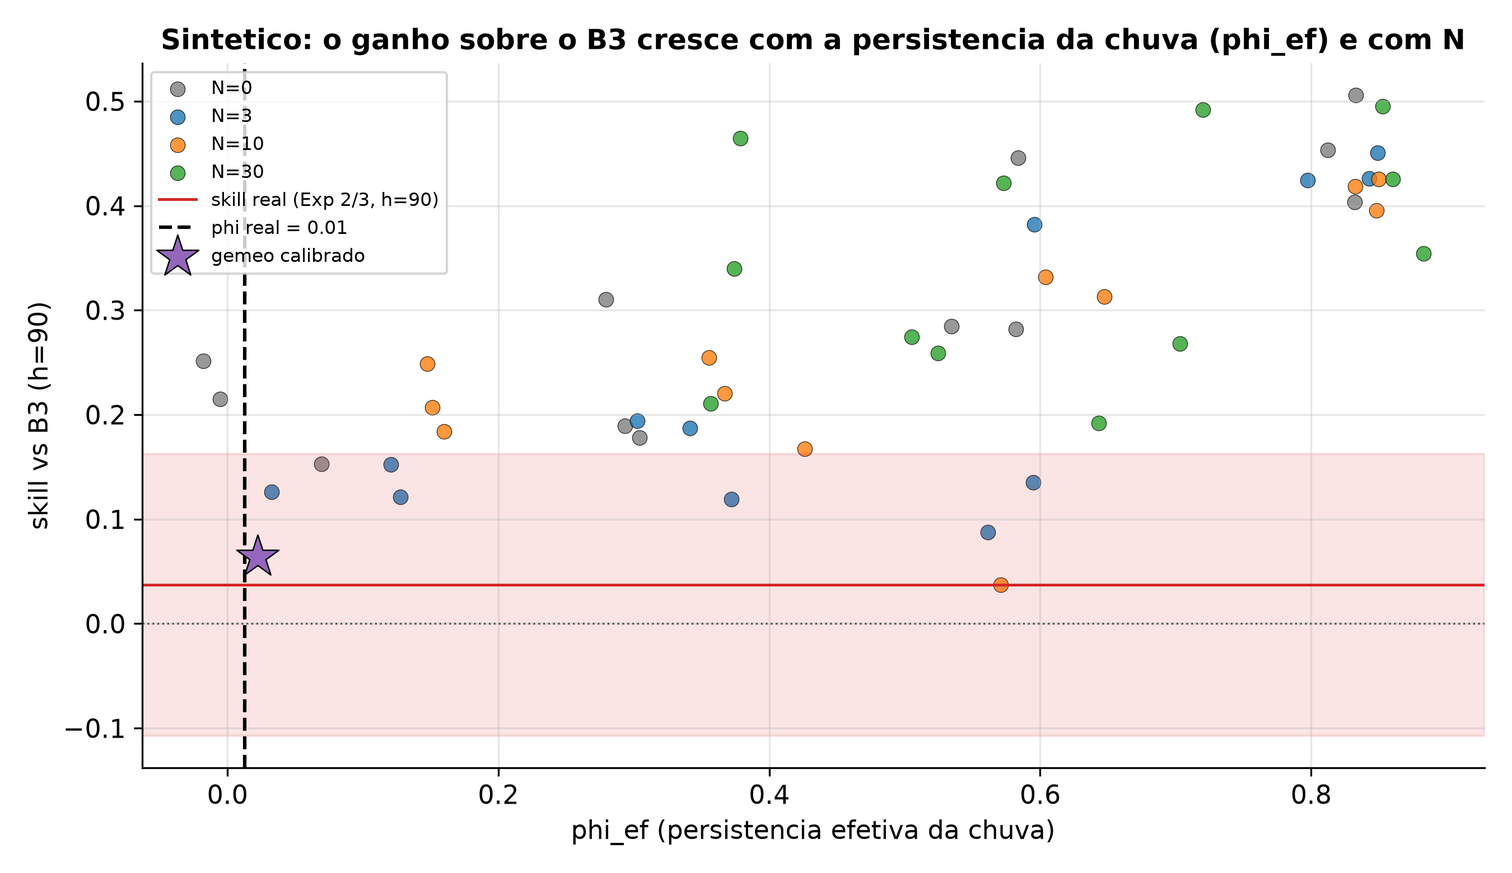
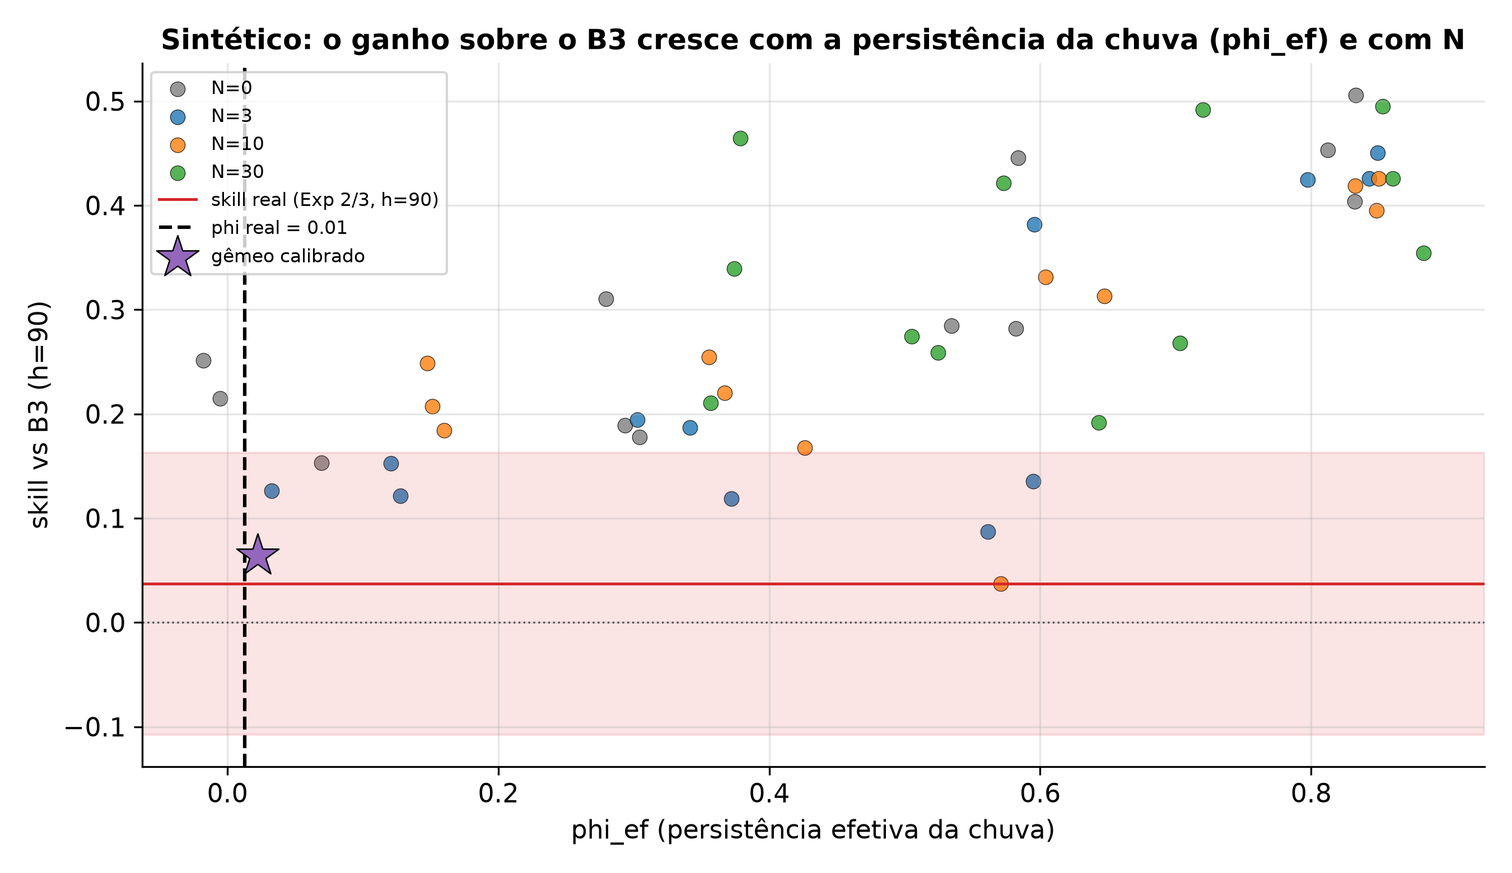
Figuras: acentua os rotulos, corrige o titulo da fig_14 e os titulos cortados
So texto, nenhum numero muda (fig_04 nem foi regenerada, por nao ter acento).
- Acentos em todos os rotulos, titulos, legendas e leituras das figuras 01-16 e
  do indice_figuras.md (estacoes, util, episodios, persistencia, Atencao etc.).
- fig_14: o titulo deixa de generalizar por tamanho ("util nos maiores, fraco nos
  pequenos", que o Atibainha contradiz: 2o maior e o pior skill) e passa a dizer o
  achado real: "o mesmo pipeline nos 4 reservatorios; so o Jaguari supera o B3, e
  so em h30". Os dados plotados sao os mesmos.
- fig_08 e fig_11: titulos longos agora em duas linhas, sem corte.

diff --git a/pipeline_v2/fig_finais.py b/pipeline_v2/fig_finais.py
@@ -36,9 +36,9 @@ DF_HOUR = ROOT / "legado_v1" / "data" / "interim" / "inmet_sp_hourly_clean.parqu
 DS = ROOT / "data" / "processed_v2" / "dataset_diario.parquet"
 COMP = ROOT / "legado_v1" / "reports" / "threshold_otimizado"
 
-FAIXAS = [("Normal", 60, 100, "#2ca02c"), ("Atencao", 40, 60, "#bcbd22"),
-          ("Alerta", 30, 40, "#ff7f0e"), ("Restricao", 20, 30, "#d62728"),
-          ("Reserva tecnica", -30, 20, "#7f0000")]
+FAIXAS = [("Normal", 60, 100, "#2ca02c"), ("Atenção", 40, 60, "#bcbd22"),
+          ("Alerta", 30, 40, "#ff7f0e"), ("Restrição", 20, 30, "#d62728"),
+          ("Reserva técnica", -30, 20, "#7f0000")]
 
 INDICE = []  # (num, arquivo, titulo, leitura)
 
@@ -72,11 +72,11 @@ def fig01():
     a1.set_ylabel("Chuva anual agregada (mm)", color="#1f77b4"); a1.set_xlabel("Ano")
     a2 = a1.twinx(); a2.grid(False)
     a2.plot(chuva.index, est.reindex(chuva.index).values, color="#d62728", marker="o", lw=2)
-    a2.set_ylabel("Numero de estacoes empilhadas", color="#d62728")
-    a1.set_title("v1: a chuva agregada cresce com o numero de estacoes, nao com o clima")
-    salvar(fig, 1, "v1_chuva_vs_estacoes", "Chuva agregada da v1 contra numero de estacoes",
-           "A chuva somada vai de 3.438 mm (3,9 estacoes, 2003) a 50.476 mm (41,5 estacoes, 2019): "
-           "media um artefato de agregacao, nao o clima.")
+    a2.set_ylabel("Número de estações empilhadas", color="#d62728")
+    a1.set_title("v1: a chuva agregada cresce com o número de estações, não com o clima")
+    salvar(fig, 1, "v1_chuva_vs_estacoes", "Chuva agregada da v1 contra número de estações",
+           "A chuva somada vai de 3.438 mm (3,9 estações, 2003) a 50.476 mm (41,5 estações, 2019): "
+           "média um artefato de agregação, não o clima.")
 
 
 def fig02():
@@ -86,9 +86,9 @@ def fig02():
     fig, ax_ = plt.subplots(figsize=(9, 5))
     cores = ["#d62728" if a >= 2020 else "#2ca02c" for a in rad.index]
     ax_.bar(rad.index, rad.values, color=cores)
-    ax_.set_ylabel("RAD_SUM media diaria (kJ/m2)"); ax_.set_xlabel("Ano")
-    ax_.set_title("v1: RAD_SUM fica zerada em todo o periodo de teste (2020-2024)")
-    salvar(fig, 2, "v1_rad_zerada", "Radiacao zerada no teste da v1",
+    ax_.set_ylabel("RAD_SUM média diária (kJ/m2)"); ax_.set_xlabel("Ano")
+    ax_.set_title("v1: RAD_SUM fica zerada em todo o período de teste (2020-2024)")
+    salvar(fig, 2, "v1_rad_zerada", "Radiação zerada no teste da v1",
            "Por troca de grafia da coluna, RAD_SUM vale zero em 2020-2024 (teste) e fica inflada no treino.")
 
 
@@ -100,10 +100,10 @@ def fig03():
     ax_.bar([f"fold {i+1}" for i in range(5)], pos, color=["#d62728" if p == 0 else "#2ca02c" for p in pos])
     for i, p in enumerate(pos):
         ax_.text(i, p + 0.2, str(p), ha="center")
-    ax_.set_ylabel("Positivos no fold de validacao (y90)")
+    ax_.set_ylabel("Positivos no fold de validação (y90)")
     ax_.set_title("v1: 4 de 5 folds do TimeSeriesSplit sem nenhum positivo")
     salvar(fig, 3, "v1_folds_sem_positivo", "Folds sem positivo na v1",
-           "Os positivos por fold sao [0,0,0,15,0]: o threshold degenera e o F1 do CV e zero.")
+           "Os positivos por fold são [0,0,0,15,0]: o threshold degenera e o F1 do CV é zero.")
 
 
 def fig04():
@@ -144,10 +144,10 @@ def fig05():
     ax_.axhline(30, color="#d62728", ls="--", lw=0.8)
     for _, e in ep.iterrows():
         ax_.axvspan(pd.Timestamp(e["inicio"]), pd.Timestamp(e["fim"]), color="#d62728", alpha=0.18)
-    ax_.set_ylabel("Volume util (%)"); ax_.set_xlabel("Ano")
-    ax_.set_title("Volume util do Sistema Cantareira (1984-2026): faixas ANA/DAEE e episodios < 30%")
-    salvar(fig, 5, "eda_volume_faixas", "Volume do sistema com faixas e episodios",
-           "O sistema chega a -23,2% em 2015 (reserva tecnica). Cinco episodios < 30%: 1986, 2003-04, "
+    ax_.set_ylabel("Volume útil (%)"); ax_.set_xlabel("Ano")
+    ax_.set_title("Volume útil do Sistema Cantareira (1984-2026): faixas ANA/DAEE e episódios < 30%")
+    salvar(fig, 5, "eda_volume_faixas", "Volume do sistema com faixas e episódios",
+           "O sistema chega a -23,2% em 2015 (reserva técnica). Cinco episódios < 30%: 1986, 2003-04, "
            "2013-16, 2021-22 e 2025-26.")
 
 
@@ -162,14 +162,14 @@ def fig06():
     ax_.bar(x - w / 2, g["ERA5"], w, label="ERA5", color="#1f77b4")
     ax_.bar(x + w / 2, g["POWER"], w, label="NASA POWER", color="#ff7f0e")
     ax_.set_xticks(x); ax_.set_xticklabels(g.index, rotation=90, fontsize=7)
-    ax_.set_ylabel("Chuva anual media da bacia (mm)"); ax_.set_xlabel("Ano"); ax_.legend()
+    ax_.set_ylabel("Chuva anual média da bacia (mm)"); ax_.set_xlabel("Ano"); ax_.legend()
     if 1999 in g.index:
         xi = list(g.index).index(1999)
         ax_.annotate("anomalia POWER 1999", xy=(xi, g.loc[1999, "POWER"]), xytext=(xi, g["POWER"].max()),
                      arrowprops=dict(arrowstyle="->", color="#d62728"), color="#d62728", fontsize=9)
     ax_.set_title("Chuva anual da bacia: ERA5 contra NASA POWER (anomalia do POWER em 1999)")
     salvar(fig, 6, "eda_chuva_era5_vs_power", "Chuva anual ERA5 contra POWER",
-           "As fontes concordam, menos em 1999, quando o POWER tem um pico anomalo (~3.380 mm vs ~1.600 do ERA5).")
+           "As fontes concordam, menos em 1999, quando o POWER tem um pico anômalo (~3.380 mm vs ~1.600 do ERA5).")
 
 
 # ---------------- 4.3 Sintetico ----------------
@@ -193,30 +193,30 @@ def fig07():
     ax_.axhline(band[2], color="#d62728", lw=1.2, label="skill real (Exp 2/3, h=90)")
     ax_.axvline(cal.phi_real, color="black", ls="--", lw=1.5, label=f"phi real = {cal.phi_real:.2f}")
     ax_.scatter(gem.phi_ef_medio, gem.skill_90_medio, marker="*", s=360, c="#9467bd", edgecolor="k",
-                lw=0.6, zorder=6, label="gemeo calibrado")
+                lw=0.6, zorder=6, label="gêmeo calibrado")
     ax_.axhline(0, color="#555", ls=":", lw=0.8)
-    ax_.set_xlabel("phi_ef (persistencia efetiva da chuva)"); ax_.set_ylabel("skill vs B3 (h=90)")
+    ax_.set_xlabel("phi_ef (persistência efetiva da chuva)"); ax_.set_ylabel("skill vs B3 (h=90)")
     ax_.legend(fontsize=8, loc="upper left")
-    ax_.set_title("Sintetico: o ganho sobre o B3 cresce com a persistencia da chuva (phi_ef) e com N")
-    salvar(fig, 7, "sintetico_skill_phief", "Skill sintetico por persistencia efetiva",
-           "DADOS SINTETICOS. O Cantareira real esta em phi ~ 0; o gemeo calibrado (estrela) ainda supera "
-           "o B3 em h90, limitacao discutida no texto.")
+    ax_.set_title("Sintético: o ganho sobre o B3 cresce com a persistência da chuva (phi_ef) e com N")
+    salvar(fig, 7, "sintetico_skill_phief", "Skill sintético por persistência efetiva",
+           "DADOS SINTÉTICOS. O Cantareira real está em phi ~ 0; o gêmeo calibrado (estrela) ainda supera "
+           "o B3 em h90, limitação discutida no texto.")
 
 
 def fig08():
     san = pd.read_csv(SINT / "sanidade_sintetico.csv", index_col=0)
     fig, ax_ = plt.subplots(figsize=(7, 5))
-    nomes = ["real (modelo)", "embaralhado", "oraculo"]
+    nomes = ["real (modelo)", "embaralhado", "oráculo"]
     vals = [san.loc["normal", "skill"], san.loc["shuffle", "skill"], san.loc["oraculo", "skill"]]
     ax_.bar(nomes, vals, color=["#2ca02c", "#7f7f7f", "#9467bd"])
     ax_.axhline(0, color="#d62728", ls="--")
     for i, v in enumerate(vals):
         ax_.text(i, v + (0.01 if v >= 0 else -0.03), f"{v:.3f}", ha="center")
     ax_.set_ylabel("skill vs B3 (h=90)")
-    ax_.set_title("Sintetico: embaralhado zera o skill; o oraculo (chuva futura) o maximiza")
-    salvar(fig, 8, "sintetico_sanidade", "Sanidade do sintetico",
-           "DADOS SINTETICOS. Embaralhado skill -0,00; oraculo +0,62: o teto e a informacao sobre a chuva "
-           "futura, nao o algoritmo.")
+    ax_.set_title("Sintético: embaralhado zera o skill;\no oráculo (chuva futura) o maximiza")
+    salvar(fig, 8, "sintetico_sanidade", "Sanidade do sintético",
+           "DADOS SINTÉTICOS. Embaralhado skill -0,00; oráculo +0,62: o teto é a informação sobre a chuva "
+           "futura, não o algoritmo.")
 
 
 # ---------------- 4.4 Exp 2 ----------------
@@ -230,18 +230,18 @@ def fig09():
         ys = [r[(r.conjunto == conj) & (r.modelo == mod) & (r.horizonte == h)]["skill_B1"].mean() for h in hs]
         rot = {"B3_persist_sazonal": "B3"}.get(mod, mod)
         ax_.plot(hs, ys, marker="o", color=cor, ls=ls, label=f"{conj}/{rot}")
-    ax_.axhline(0, color="#d62728", ls="--", label="B1 (persistencia)")
-    ax_.set_xlabel("Horizonte (dias)"); ax_.set_ylabel("skill vs B1 (persistencia)"); ax_.set_xticks(hs)
+    ax_.axhline(0, color="#d62728", ls="--", label="B1 (persistência)")
+    ax_.set_xlabel("Horizonte (dias)"); ax_.set_ylabel("skill vs B1 (persistência)"); ax_.set_xticks(hs)
     ax_.legend()
-    ax_.set_title("Exp 2: clima sozinho nao preve o nivel; com o estado, empata com o B3")
+    ax_.set_title("Exp 2: clima sozinho não prevê o nível; com o estado, empata com o B3")
     salvar(fig, 9, "exp2_skill_horizonte", "Clima contra clima e estado (Exp 2)",
-           "CLIMA sozinho tem skill negativo; CLIMA_ESTADO fica junto do B3 (skill vs B1 ~0,3), sem supera-lo.")
+           "CLIMA sozinho tem skill negativo; CLIMA_ESTADO fica junto do B3 (skill vs B1 ~0,3), sem superá-lo.")
 
 
 # ---------------- 4.5 Exp 3 ----------------
 def fig10():
     sc = pd.read_csv(RES / "skill_condicional.csv")
-    paineis = [("geral", "Geral"), ("seca", "Seca (SPI-12 < -1)"), ("pre_episodio", "Pre-episodio")]
+    paineis = [("geral", "Geral"), ("seca", "Seca (SPI-12 < -1)"), ("pre_episodio", "Pré-episódio")]
     hs = [30, 60, 90]
     fig, axs = plt.subplots(1, 3, figsize=(12, 4.3), sharey=True)
     for a, (sub, tit) in zip(axs, paineis):
@@ -250,10 +250,10 @@ def fig10():
         a.errorbar(d.horizonte, d.skill_B3, yerr=yerr, marker="o", capsize=4, color="#2ca02c")
         a.axhline(0, color="#d62728", ls="--"); a.set_title(tit); a.set_xticks(hs); a.set_xlabel("Horizonte")
     axs[0].set_ylabel("skill vs B3 (IC95%)")
-    fig.suptitle("Exp 3: o modelo residual nao supera o B3 de forma confiavel (IC95% cruza zero)",
+    fig.suptitle("Exp 3: o modelo residual não supera o B3 de forma confiável (IC95% cruza zero)",
                  fontweight="bold")
     salvar(fig, 10, "exp3_skill_condicional", "Skill condicional do residual (Exp 3)",
-           "Em geral, seca e pre-episodio, todos os IC95% do XGBRes cruzam zero: nao supera o B3 onde importa.")
+           "Em geral, seca e pré-episódio, todos os IC95% do XGBRes cruzam zero: não supera o B3 onde importa.")
 
 
 def fig11():
@@ -266,11 +266,12 @@ def fig11():
     for _, r in d.iterrows():
         ax_.annotate(f"p={r.wilcoxon_p:g}", (r.horizonte, r.mediana_dif), textcoords="offset points",
                      xytext=(8, 8), fontsize=9)
-    ax_.set_xlabel("Horizonte (dias)"); ax_.set_ylabel("Antecedencia XGBRes - B3 (dias)"); ax_.set_xticks([30, 60, 90])
-    ax_.set_title("Exp 3: o XGBRes antecipa o alerta mais que o B3 (limiar 40), com significancia em h30 e h60")
-    salvar(fig, 11, "exp3_antecedencia_pareada", "Antecedencia pareada (Exp 3)",
-           "Mediana da diferenca: +6,5 d (h30, p=0,039), +19 d (h60, p=0,002), +7 d (h90, p=0,10). "
-           "Custo: 3-4 episodios de falso-alarme em 20 anos contra zero do B3.")
+    ax_.set_xlabel("Horizonte (dias)"); ax_.set_ylabel("Antecedência XGBRes - B3 (dias)"); ax_.set_xticks([30, 60, 90])
+    ax_.set_title("Exp 3: o XGBRes antecipa o alerta mais que o B3 (limiar 40),\n"
+                  "com significância em h30 e h60")
+    salvar(fig, 11, "exp3_antecedencia_pareada", "Antecedência pareada (Exp 3)",
+           "Mediana da diferença: +6,5 d (h30, p=0,039), +19 d (h60, p=0,002), +7 d (h90, p=0,10). "
+           "Custo: 3-4 episódios de falso-alarme em 20 anos contra zero do B3.")
 
 
 # ---------------- 4.6 Teste ----------------
@@ -290,10 +291,10 @@ def fig12():
         s = per[per.chave == rot].sort_values("horizonte")
         a2.plot(s.horizonte, s["valor"].astype(float), marker="o", color=cor, label=rot)
     a2.axhline(0, color="#555", ls="--"); a2.set_xticks(hs); a2.set_xlabel("Horizonte")
-    a2.set_ylabel("skill vs B3"); a2.set_title("Skill por periodo"); a2.legend()
-    fig.suptitle("Exp 3 (teste): o XGBRes supera o B3; significativo em h30 e h60, presente nos dois periodos",
+    a2.set_ylabel("skill vs B3"); a2.set_title("Skill por período"); a2.legend()
+    fig.suptitle("Exp 3 (teste): o XGBRes supera o B3; significativo em h30 e h60, presente nos dois períodos",
                  fontweight="bold")
-    salvar(fig, 12, "teste_skill_ic", "Resultado do teste com IC95% e por periodo",
+    salvar(fig, 12, "teste_skill_ic", "Resultado do teste com IC95% e por período",
            "Skill +0,240 [0,132;0,372] (h30) e +0,229 [0,079;0,420] (h60) significativos; h90 cruza zero. "
            "A vantagem aparece em 2023-2024 e 2025-2026.")
 
@@ -310,13 +311,13 @@ def fig13():
     for nome, lo, hi, cor in FAIXAS:
         ax_.axhspan(lo, hi, color=cor, alpha=0.08)
     ax_.plot(d["alvo"], d["real"], color="#1f3b73", lw=2, label="real (vol t+90)")
-    ax_.plot(d["alvo"], d["vol_t"], color="#7f7f7f", ls=":", label="B1 (persistencia)")
+    ax_.plot(d["alvo"], d["vol_t"], color="#7f7f7f", ls=":", label="B1 (persistência)")
     ax_.plot(d["alvo"], d["B3"], color="#ff7f0e", ls="--", label="B3")
     ax_.plot(d["alvo"], d["XGBRes"], color="#d1495b", label="XGBRes (congelado)")
     ax_.axhline(40, color="#d62728", ls="dotted")
-    ax_.set_ylabel("Volume util (%)"); ax_.set_xlabel("Data alvo (t+90)"); ax_.legend()
-    ax_.set_title("Teste: previsao a 90 dias na crise de 2025-26 (modelo congelado)")
-    salvar(fig, 13, "teste_backtest_2025_26", "Previsao no teste da crise de 2025-26",
+    ax_.set_ylabel("Volume útil (%)"); ax_.set_xlabel("Data alvo (t+90)"); ax_.legend()
+    ax_.set_title("Teste: previsão a 90 dias na crise de 2025-26 (modelo congelado)")
+    salvar(fig, 13, "teste_backtest_2025_26", "Previsão no teste da crise de 2025-26",
            "No teste, a 90 dias, o XGBRes acompanha a queda melhor que o B3; antecipa o alerta em ~11 dias.")
 
 
@@ -328,10 +329,10 @@ def fig14():
         d = e[e.reservatorio == nome].sort_values("horizonte")
         ax_.plot(d.horizonte, d.skill_vs_B3, marker="o", label=nome)
     ax_.axhline(0, color="#d62728", ls="--", label="B3")
-    ax_.set_xlabel("Horizonte (dias)"); ax_.set_ylabel("skill vs B3 (validacao)"); ax_.set_xticks([30, 60, 90])
+    ax_.set_xlabel("Horizonte (dias)"); ax_.set_ylabel("skill vs B3 (validação)"); ax_.set_xticks([30, 60, 90])
     ax_.legend()
-    ax_.set_title("Exp 4: o mesmo pipeline nos 4 reservatorios; util nos maiores, fraco nos pequenos")
-    salvar(fig, 14, "exp4_reservatorios", "Generalizacao para outros reservatorios (Exp 4)",
+    ax_.set_title("Exp 4: o mesmo pipeline nos 4 reservatórios;\nsó o Jaguari supera o B3, e só em h30")
+    salvar(fig, 14, "exp4_reservatorios", "Generalização para outros reservatórios (Exp 4)",
            "O pipeline roda inalterado. Skill vs B3: Jaguari +0,11 (h30), Cachoeira ~0, Atibainha -0,41, "
            "Paiva Castro -0,18.")
 

diff --git a/pipeline_v2/fig_app.py b/pipeline_v2/fig_app.py
@@ -47,18 +47,18 @@ def fig15(df):
     for n, lo, hi, cor in FAIXAS:
         ax_.axhspan(lo, hi, color=cor, alpha=0.08)
     ax_.plot(hist["data"], hist["vol_pct"], color="#1f3b73", lw=1.6, label="volume observado (%)")
-    ax_.plot(prev["data_alvo"], prev["vol_previsto"], "o-", color="#d1495b", ms=9, label="previsao")
+    ax_.plot(prev["data_alvo"], prev["vol_previsto"], "o-", color="#d1495b", ms=9, label="previsão")
     ax_.fill_between(prev["data_alvo"], prev["lo"], prev["hi"], color="#d1495b", alpha=0.2,
                      label="faixa de incerteza")
     for _, r in prev.iterrows():
         ax_.annotate(f"{r.vol_previsto:.0f}%", (r.data_alvo, r.vol_previsto),
                      textcoords="offset points", xytext=(0, 10), ha="center", fontsize=9)
-    ax_.set_ylabel("Volume util (%)"); ax_.set_xlabel("Data"); ax_.legend(loc="upper left")
-    ax_.set_title(f"Aplicacao, situacao atual: volume {vol_atual:.1f}% (faixa {nome}) e previsao "
+    ax_.set_ylabel("Volume útil (%)"); ax_.set_xlabel("Data"); ax_.legend(loc="upper left")
+    ax_.set_title(f"Aplicação, situação atual: volume {vol_atual:.1f}% (faixa {nome}) e previsão "
                   f"a 30, 60 e 90 dias")
-    _salvar(fig, 15, "app_situacao_atual", "Aplicacao: situacao atual e previsao",
-            f"Renderizacao da tela inicial do app. Volume em {pd.Timestamp(atual_data).date()} de "
-            f"{vol_atual:.1f}% (faixa {nome}); previsao 40,8%/44,4%/48,7% com faixa de incerteza.")
+    _salvar(fig, 15, "app_situacao_atual", "Aplicação: situação atual e previsão",
+            f"Renderização da tela inicial do app. Volume em {pd.Timestamp(atual_data).date()} de "
+            f"{vol_atual:.1f}% (faixa {nome}); previsão 40,8%/44,4%/48,7% com faixa de incerteza.")
 
 
 def fig16(df):
@@ -71,14 +71,14 @@ def fig16(df):
     for n, lo, hi, cor in FAIXAS:
         ax_.axhspan(lo, hi, color=cor, alpha=0.08)
     ax_.plot(d["alvo"], d["real"], color="#1f3b73", lw=2, label="real (vol t+90)")
-    ax_.plot(d["alvo"], d["vol_t"], color="#7f7f7f", ls=":", label="B1 (persistencia)")
+    ax_.plot(d["alvo"], d["vol_t"], color="#7f7f7f", ls=":", label="B1 (persistência)")
     ax_.plot(d["alvo"], d["B3"], color="#ff7f0e", ls="--", label="B3")
     ax_.plot(d["alvo"], d["XGBRes"], color="#d1495b", label="XGBRes (congelado)")
     ax_.axhline(40, color="#d62728", ls="dotted")
-    ax_.set_ylabel("Volume util (%)"); ax_.set_xlabel("Data alvo (t+90)"); ax_.legend(loc="upper left")
-    ax_.set_title("Aplicacao, retrospectiva da crise de 2025-26: previsao a 90 dias (modelo congelado)")
-    _salvar(fig, 16, "app_retrospectiva_2025_26", "Aplicacao: retrospectiva da crise de 2025-26",
-            "Renderizacao da pagina de retrospectiva. A 90 dias, o XGBRes acompanha a queda melhor que o "
+    ax_.set_ylabel("Volume útil (%)"); ax_.set_xlabel("Data alvo (t+90)"); ax_.legend(loc="upper left")
+    ax_.set_title("Aplicação, retrospectiva da crise de 2025-26: previsão a 90 dias (modelo congelado)")
+    _salvar(fig, 16, "app_retrospectiva_2025_26", "Aplicação: retrospectiva da crise de 2025-26",
+            "Renderização da página de retrospectiva. A 90 dias, o XGBRes acompanha a queda melhor que o "
             "B3 e antecipa o alerta da crise de 2025-26 (teste, modelo congelado).")
 
 

diff --git a/reports/v2/final/figuras/indice_figuras.md b/reports/v2/final/figuras/indice_figuras.md
@@ -2,19 +2,19 @@
 
 | Nº | Arquivo | Titulo | Leitura |
 |---|---|---|---|
-| 1 | `fig_01_v1_chuva_vs_estacoes.png` | Chuva agregada da v1 contra numero de estacoes | A chuva somada vai de 3.438 mm (3,9 estacoes, 2003) a 50.476 mm (41,5 estacoes, 2019): media um artefato de agregacao, nao o clima. |
-| 2 | `fig_02_v1_rad_zerada.png` | Radiacao zerada no teste da v1 | Por troca de grafia da coluna, RAD_SUM vale zero em 2020-2024 (teste) e fica inflada no treino. |
-| 3 | `fig_03_v1_folds_sem_positivo.png` | Folds sem positivo na v1 | Os positivos por fold sao [0,0,0,15,0]: o threshold degenera e o F1 do CV e zero. |
+| 1 | `fig_01_v1_chuva_vs_estacoes.png` | Chuva agregada da v1 contra número de estações | A chuva somada vai de 3.438 mm (3,9 estações, 2003) a 50.476 mm (41,5 estações, 2019): média um artefato de agregação, não o clima. |
+| 2 | `fig_02_v1_rad_zerada.png` | Radiação zerada no teste da v1 | Por troca de grafia da coluna, RAD_SUM vale zero em 2020-2024 (teste) e fica inflada no treino. |
+| 3 | `fig_03_v1_folds_sem_positivo.png` | Folds sem positivo na v1 | Os positivos por fold são [0,0,0,15,0]: o threshold degenera e o F1 do CV é zero. |
 | 4 | `fig_04_v1_spi_vs_modelos.png` | Regra do SPI contra os modelos da v1 | A regra -SPI30 tem AUC 0,785/0,755/0,752, acima dos modelos (melhor XGBoost 0,700). |
-| 5 | `fig_05_eda_volume_faixas.png` | Volume do sistema com faixas e episodios | O sistema chega a -23,2% em 2015 (reserva tecnica). Cinco episodios < 30%: 1986, 2003-04, 2013-16, 2021-22 e 2025-26. |
-| 6 | `fig_06_eda_chuva_era5_vs_power.png` | Chuva anual ERA5 contra POWER | As fontes concordam, menos em 1999, quando o POWER tem um pico anomalo (~3.380 mm vs ~1.600 do ERA5). |
-| 7 | `fig_07_sintetico_skill_phief.png` | Skill sintetico por persistencia efetiva | DADOS SINTETICOS. O Cantareira real esta em phi ~ 0; o gemeo calibrado (estrela) ainda supera o B3 em h90, limitacao discutida no texto. |
-| 8 | `fig_08_sintetico_sanidade.png` | Sanidade do sintetico | DADOS SINTETICOS. Embaralhado skill -0,00; oraculo +0,62: o teto e a informacao sobre a chuva futura, nao o algoritmo. |
-| 9 | `fig_09_exp2_skill_horizonte.png` | Clima contra clima e estado (Exp 2) | CLIMA sozinho tem skill negativo; CLIMA_ESTADO fica junto do B3 (skill vs B1 ~0,3), sem supera-lo. |
-| 10 | `fig_10_exp3_skill_condicional.png` | Skill condicional do residual (Exp 3) | Em geral, seca e pre-episodio, todos os IC95% do XGBRes cruzam zero: nao supera o B3 onde importa. |
-| 11 | `fig_11_exp3_antecedencia_pareada.png` | Antecedencia pareada (Exp 3) | Mediana da diferenca: +6,5 d (h30, p=0,039), +19 d (h60, p=0,002), +7 d (h90, p=0,10). Custo: 3-4 episodios de falso-alarme em 20 anos contra zero do B3. |
-| 12 | `fig_12_teste_skill_ic.png` | Resultado do teste com IC95% e por periodo | Skill +0,240 [0,132;0,372] (h30) e +0,229 [0,079;0,420] (h60) significativos; h90 cruza zero. A vantagem aparece em 2023-2024 e 2025-2026. |
-| 13 | `fig_13_teste_backtest_2025_26.png` | Previsao no teste da crise de 2025-26 | No teste, a 90 dias, o XGBRes acompanha a queda melhor que o B3; antecipa o alerta em ~11 dias. |
-| 14 | `fig_14_exp4_reservatorios.png` | Generalizacao para outros reservatorios (Exp 4) | O pipeline roda inalterado. Skill vs B3: Jaguari +0,11 (h30), Cachoeira ~0, Atibainha -0,41, Paiva Castro -0,18. |
-| 15 | `fig_15_app_situacao_atual.png` | Aplicacao: situacao atual e previsao | Renderizacao da tela inicial do app. Volume em 2026-10-01 de 40.9% (faixa Atenção); previsao 40,8%/44,4%/48,7% com faixa de incerteza. |
-| 16 | `fig_16_app_retrospectiva_2025_26.png` | Aplicacao: retrospectiva da crise de 2025-26 | Renderizacao da pagina de retrospectiva. A 90 dias, o XGBRes acompanha a queda melhor que o B3 e antecipa o alerta da crise de 2025-26 (teste, modelo congelado). |
+| 5 | `fig_05_eda_volume_faixas.png` | Volume do sistema com faixas e episódios | O sistema chega a -23,2% em 2015 (reserva técnica). Cinco episódios < 30%: 1986, 2003-04, 2013-16, 2021-22 e 2025-26. |
+| 6 | `fig_06_eda_chuva_era5_vs_power.png` | Chuva anual ERA5 contra POWER | As fontes concordam, menos em 1999, quando o POWER tem um pico anômalo (~3.380 mm vs ~1.600 do ERA5). |
+| 7 | `fig_07_sintetico_skill_phief.png` | Skill sintético por persistência efetiva | DADOS SINTÉTICOS. O Cantareira real está em phi ~ 0; o gêmeo calibrado (estrela) ainda supera o B3 em h90, limitação discutida no texto. |
+| 8 | `fig_08_sintetico_sanidade.png` | Sanidade do sintético | DADOS SINTÉTICOS. Embaralhado skill -0,00; oráculo +0,62: o teto é a informação sobre a chuva futura, não o algoritmo. |
+| 9 | `fig_09_exp2_skill_horizonte.png` | Clima contra clima e estado (Exp 2) | CLIMA sozinho tem skill negativo; CLIMA_ESTADO fica junto do B3 (skill vs B1 ~0,3), sem superá-lo. |
+| 10 | `fig_10_exp3_skill_condicional.png` | Skill condicional do residual (Exp 3) | Em geral, seca e pré-episódio, todos os IC95% do XGBRes cruzam zero: não supera o B3 onde importa. |
+| 11 | `fig_11_exp3_antecedencia_pareada.png` | Antecedência pareada (Exp 3) | Mediana da diferença: +6,5 d (h30, p=0,039), +19 d (h60, p=0,002), +7 d (h90, p=0,10). Custo: 3-4 episódios de falso-alarme em 20 anos contra zero do B3. |
+| 12 | `fig_12_teste_skill_ic.png` | Resultado do teste com IC95% e por período | Skill +0,240 [0,132;0,372] (h30) e +0,229 [0,079;0,420] (h60) significativos; h90 cruza zero. A vantagem aparece em 2023-2024 e 2025-2026. |
+| 13 | `fig_13_teste_backtest_2025_26.png` | Previsão no teste da crise de 2025-26 | No teste, a 90 dias, o XGBRes acompanha a queda melhor que o B3; antecipa o alerta em ~11 dias. |
+| 14 | `fig_14_exp4_reservatorios.png` | Generalização para outros reservatórios (Exp 4) | O pipeline roda inalterado. Skill vs B3: Jaguari +0,11 (h30), Cachoeira ~0, Atibainha -0,41, Paiva Castro -0,18. |
+| 15 | `fig_15_app_situacao_atual.png` | Aplicação: situação atual e previsão | Renderização da tela inicial do app. Volume em 2026-10-01 de 40.9% (faixa Atenção); previsão 40,8%/44,4%/48,7% com faixa de incerteza. |
+| 16 | `fig_16_app_retrospectiva_2025_26.png` | Aplicação: retrospectiva da crise de 2025-26 | Renderização da página de retrospectiva. A 90 dias, o XGBRes acompanha a queda melhor que o B3 e antecipa o alerta da crise de 2025-26 (teste, modelo congelado). |
